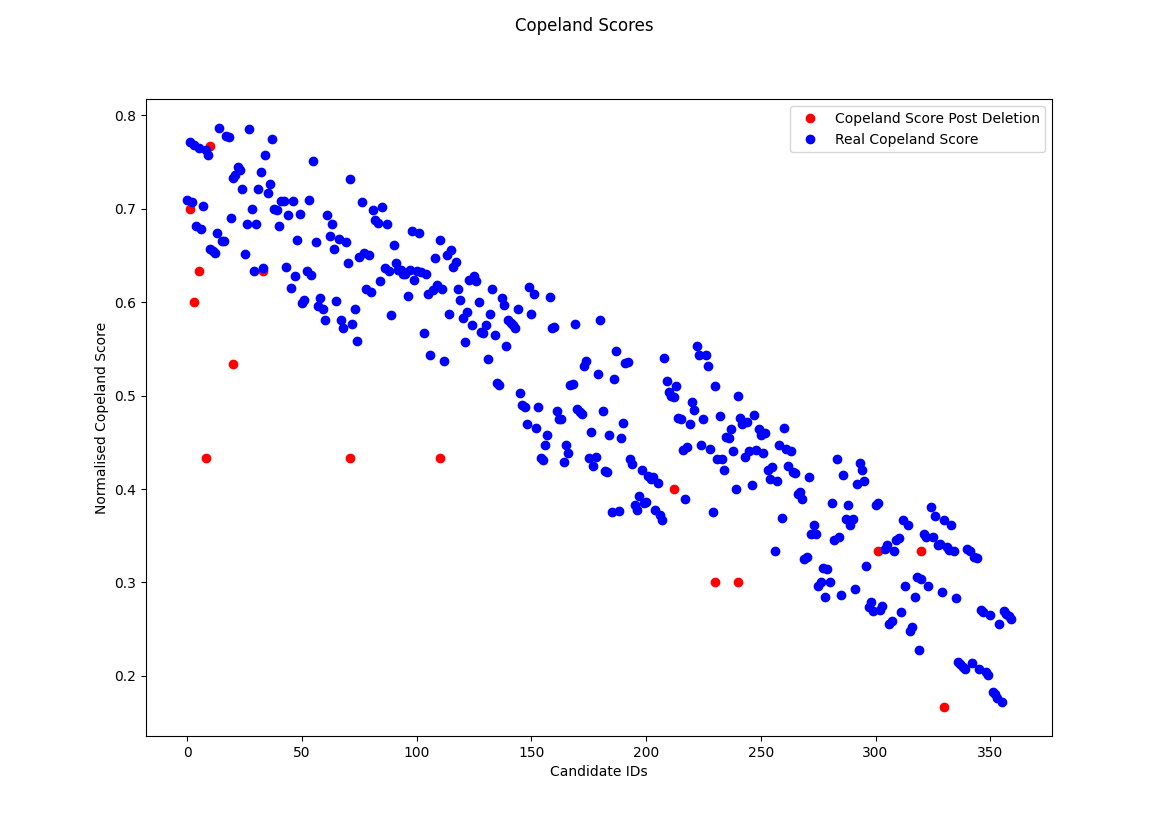
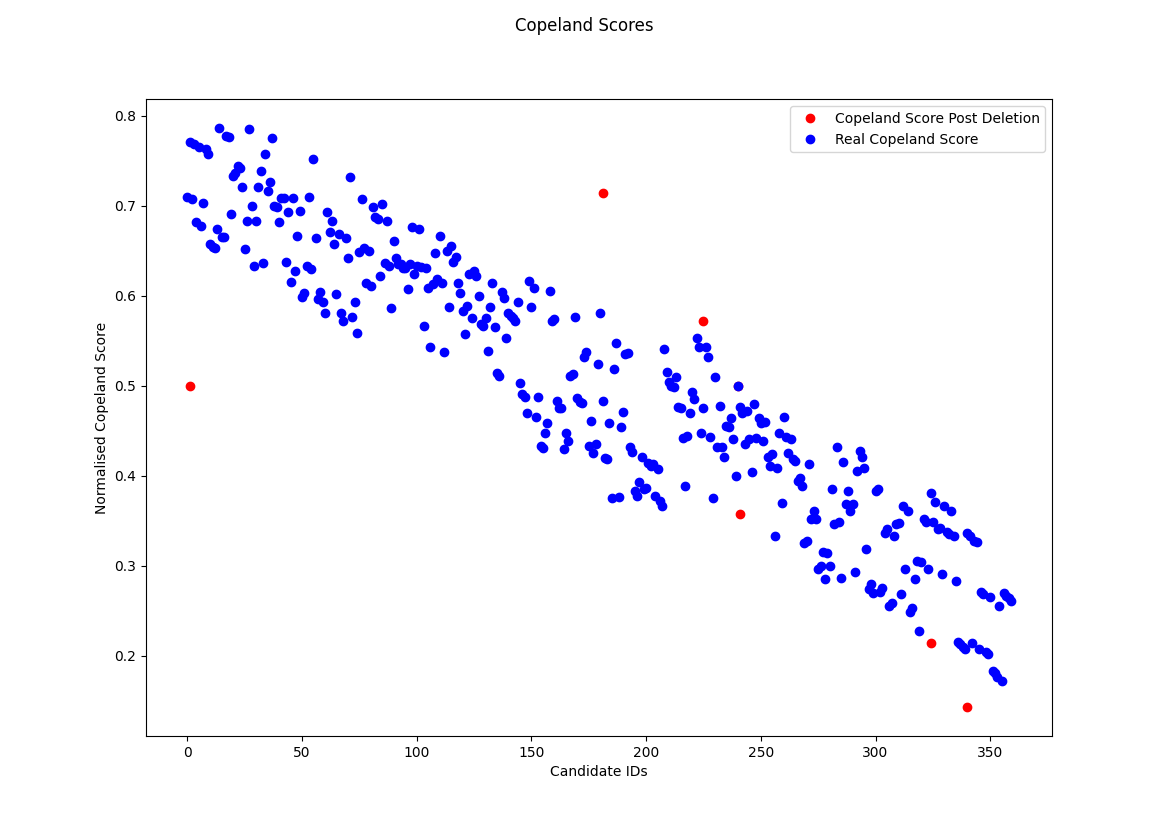
making edits to deletion copeland, might mess it up.

diff --git a/deletion_copeland.py b/deletion_copeland.py
@@ -1,3 +1,9 @@
+'''
+TODO:
+    - [ ] Create a wrapper for score_list and copeland_score. 
+    - [ ] Put deletion step as a function.
+'''
+
 import iterative_copeland as ic
 import pickle
 import numpy as np
@@ -9,8 +15,35 @@ from os.path import isfile, join
 
 import matplotlib.pyplot as plt
 
+def copelandWrapper(preference_profile_segment):
+    agents = len(preference_profile_segment[0]) - 1
+    candidates = len(preference_profile_segment)
+    # calculation of pairwise score and copeland score
+    score_list = ic.pairwiseScoreCalcListFull(
+        preference_profile_segment[:, 1:], candidates, agents)
+    copeland_score = ic.copelandScoreFull(score_list, candidates, agents)
 
-def deletionCopeland(preference_profile, step, deletion_ratio):
+    # Finding the weaklings
+    sorted_copeland_score = np.argsort(copeland_score)
+    no_of_deleted_candidates = len(
+        preference_profile_segment) - surviving_candidates
+    # Takes the highest x candidates
+    to_be_deleted = sorted_copeland_score[0:no_of_deleted_candidates]
+
+    preference_profile_segment = [i for x, i in enumerate(
+        preference_profile_segment) if x not in to_be_deleted]
+    copeland_score = [i for x, i in enumerate(
+        copeland_score) if x not in to_be_deleted]
+    assert len(preference_profile_segment) == len(copeland_score)
+    # # Recomputing copeland score
+    # score_list = ic.pairwiseScoreCalcListFull(
+    #     preference_profile_segment, len(preference_profile_segment), agents)
+    # copeland_score = ic.copelandScoreFull(
+    #     score_list, len(preference_profile_segment), agents)
+    return (preference_profile_segment, copeland_score)
+
+
+def deletionCopeland(preference_profile, step, surviving_candidates):
     # Processing the data.
     candidates = len(preference_profile)
     agents = len(preference_profile[0])
@@ -24,8 +57,8 @@ def deletionCopeland(preference_profile, step, deletion_ratio):
             score_list, len(i_preference_profile), agents)
 
         sorted_copeland_score = np.argsort(copeland_score)
-        no_of_deleted_candidates = int(
-            deletion_ratio*len(i_preference_profile))
+        no_of_deleted_candidates = len(
+            i_preference_profile) - surviving_candidates
 
         to_be_deleted = sorted_copeland_score[0:no_of_deleted_candidates]
         i_preference_profile = [i for j, i in enumerate(
@@ -36,47 +69,39 @@ def deletionCopeland(preference_profile, step, deletion_ratio):
         score_list, len(i_preference_profile), agents)
     return (i_preference_profile, copeland_score)
 
-def deletionCopelandFamily(preference_profile, step, deletion_ratio):
+def deletionCopelandFamily(preference_profile, step, surviving_candidates):
     # Processing the data.
     candidates = len(preference_profile)
-    agents = len(preference_profile[0])
+    # We add a column on the 0th index to keep track of candidate IDs.
+    agents = len(preference_profile[0]) - 1
     familyipp = []
     familycs = []
-    i_preference_profile = []
+    i_preference_profile = preference_profile[0:step]
     for i in range(0, candidates, step):
-        # step-size equivalent no of candidates added.
-        i_preference_profile.extend(preference_profile[i: i+step])
-        # calculation of pairwise score
-        score_list = ic.pairwiseScoreCalcListFull(
-            i_preference_profile, len(i_preference_profile), agents)
-        # calculation of copeland score
-        copeland_score = ic.copelandScoreFull(
-            score_list, len(i_preference_profile), agents)
-
-        sorted_copeland_score = np.argsort(copeland_score)
-        no_of_deleted_candidates = int(
-            deletion_ratio*len(i_preference_profile))
-
+        i_preference_profile, copeland_score = copelandWrapper(
+            i_preference_profile)
+        # Storing preference profile and associated copeland score
         familyipp.append(i_preference_profile)
         familycs.append(copeland_score)
-
-        to_be_deleted = sorted_copeland_score[0:no_of_deleted_candidates]
-        i_preference_profile = [i for j, i in enumerate(
-            i_preference_profile) if j not in to_be_deleted]
-    score_list = ic.pairwiseScoreCalcListFull(
-        i_preference_profile, len(i_preference_profile), agents)
-    copeland_score = ic.copelandScoreFull(
-        score_list, len(i_preference_profile), agents)
+        # step-size equivalent no of candidates added.
+        i_preference_profile = np.append(
+            i_preference_profile, preference_profile[i: i+step], axis=0)
+    i_preference_profile, copeland_score = copelandWrapper(
+        i_preference_profile)
     familyipp.append(i_preference_profile)
     familycs.append(copeland_score)
-    # print(len(familyipp[0]))
-    # print(len(familycs[0]))
-    assert len(familyipp[0]) == len(familycs[0])
+    assert len(familyipp) == len(familycs)
+    for i in range(len(familyipp)):
+        # print(len(familyipp[i]))
+        # print(len(familycs[i]))
+        # print("⭐")
+        assert len(familyipp[i]) == len(familycs[i])
     return (familyipp, familycs)
 
-def plot(directory, filename, step, deletion_ratio, show_plots_during_execution):
+
+def plot(directory, filename, step, surviving_candidates, show_plots_during_execution):
     # Reading pickled files and storing the data.
-    pickled_file = open(directory + "_profiles/"+ filename+".vt", "rb")
+    pickled_file = open(directory + "_profiles/" + filename+".vt", "rb")
     preference_profile = pickle.load(pickled_file)
     true_copeland_score = None
     # Processing the data.
@@ -86,30 +111,85 @@ def plot(directory, filename, step, deletion_ratio, show_plots_during_execution)
     score_list = ic.pairwiseScoreCalcListFull(
         preference_profile, candidates, agents)
     true_copeland_score = ic.copelandScoreFull(score_list, candidates, agents)
+    # Relative Copeland Score
     true_copeland_score = [i/candidates for i in true_copeland_score]
     pickled_file.close()
 
-    ipp, cs = deletionCopeland(preference_profile, step, deletion_ratio)
+    ipp, cs = deletionCopeland(
+        preference_profile, step, surviving_candidates)
     cs = [i/len(cs) for i in cs]
     not_deleted_candidate_ids = []
     for i, x in enumerate(preference_profile.tolist()):
         if x in np.array(ipp).tolist():
             not_deleted_candidate_ids.append(i)
+
     fig, (ax1) = plt.subplots(1)
     fig.suptitle('Copeland Scores')
-    fig.set_size_inches(11.69,8.27)
+    fig.set_size_inches(11.69, 8.27)
     ax1.plot(not_deleted_candidate_ids, cs, 'ro')
     ax1.plot(range(candidates), true_copeland_score, 'bo')
+    # encircled_true_copeland_scores = []
+    # ax1.plot(, true_copeland_score, 'ro')
     ax1.legend(['Copeland Score Post Deletion', 'Real Copeland Score'])
     ax1.set_xlabel('Candidate IDs')
     ax1.set_ylabel('Normalised Copeland Score')
     plt.savefig("plots/" + directory + "/png/" + filename)
     if show_plots_during_execution:
         plt.show()
-    
-def plot_gif(directory, filename, step, deletion_ratio):
+
+
+def plot_gif(directory, filename, step, surviving_candidates):
     # Reading pickled files and storing the data.
-    pickled_file = open(directory + "_profiles/"+ filename+".vt", "rb")
+    pickled_file = open(directory + "_profiles/" + filename+".vt", "rb")
+
+    true_copeland_score = None
+    preference_profile = pickle.load(pickled_file)
+    candidates = len(preference_profile)
+    agents = len(preference_profile[0])
+    # Augmenting preference profile with IDs.
+    preference_profile = np.insert(
+        preference_profile, 0, range(candidates), axis=1)
+
+    score_list = ic.pairwiseScoreCalcListFull(
+        preference_profile[:, 1:], candidates, agents)
+    true_copeland_score = ic.copelandScoreFull(score_list, candidates, agents)
+    true_copeland_score = [i/candidates for i in true_copeland_score]
+    pickled_file.close()
+
+    familyipp, familycs = deletionCopelandFamily(
+        preference_profile, step, surviving_candidates)
+    winners_index = np.argsort(true_copeland_score)[-5:].tolist()
+    winners_value = [true_copeland_score[x] for x in winners_index]
+    assert len(familyipp) == len(familycs)
+    for i in range(len(familycs)):
+        assert len(familyipp[i]) == len(familycs[i])
+    fig, ax1 = plt.subplots()
+    camera = Camera(fig)
+    for i in range(len(familyipp)):
+        not_deleted_candidate_id = np.stack(
+            familyipp[i], axis=0)[:, 0].tolist()
+        cs = familycs[i]
+        cs = [j/len(cs) for j in cs]
+        assert len(cs) == len(not_deleted_candidate_id)
+        fig.suptitle('Copeland Scores')
+        fig.set_size_inches(11.69, 8.27)
+        ax1.set_ylim(-0.1, 1.1)
+        ax1.plot(range(candidates), true_copeland_score, 'bo')
+        ax1.plot(winners_index, winners_value, 'm*')
+        ax1.legend(['Real Copeland Score', 'Copeland Score Post Deletion'])
+        ax1.set_xlabel('Candidate IDs')
+        ax1.set_ylabel('Normalised Copeland Score')
+        ax1.plot(not_deleted_candidate_id, cs, 'ro')
+        camera.snap()
+        # ax1.lines.pop(0)
+    animation = camera.animate(blit=False)
+    animation.save("plots/" + directory + "/gif/" +
+                   filename + '.gif', writer='imagemagick')
+
+
+def plot_copeland_winner(directory, filename, step, surviving_candidates, winner_id):
+    # Reading pickled files and storing the data.
+    pickled_file = open(directory + "_profiles/" + filename+".vt", "rb")
     preference_profile = pickle.load(pickled_file)
     true_copeland_score = None
     # Processing the data.
@@ -122,62 +202,57 @@ def plot_gif(directory, filename, step, deletion_ratio):
     true_copeland_score = [i/candidates for i in true_copeland_score]
     pickled_file.close()
 
-    familyipp, familycs = deletionCopelandFamily(preference_profile, step, deletion_ratio)
-    familyndci = []
+    familyipp, familycs = deletionCopelandFamily(
+        preference_profile, step, surviving_candidates)
+
+    assert len(familyipp) == len(familycs)
     for i in range(len(familycs)):
-        cs = familycs[i]
-        ipp = familyipp[i]
-        cs = [i/len(cs) for i in cs]
-        not_deleted_candidate_ids = []
-        for i, x in enumerate(preference_profile.tolist()):
-            if x in np.array(ipp).tolist():
-                not_deleted_candidate_ids.append(i)
-        familyndci.append(not_deleted_candidate_ids)
-    assert len(familyipp) == len(familycs) == len(familyndci)
-    for i in range(len(familycs)):
-        assert len(familyipp[i]) == len(familycs[i]) == len(familyndci[i])
+        assert len(familyipp[i]) == len(familycs[i])
+    winner_copeland_score = []
     fig, ax1 = plt.subplots()
-    camera = Camera(fig)
     for i in range(len(familyipp)):
         not_deleted_candidate_ids = familyndci[i]
         cs = familycs[i]
         cs = [j/len(cs) for j in cs]
         fig.suptitle('Copeland Scores')
-        fig.set_size_inches(11.69,8.27)
+        fig.set_size_inches(11.69, 8.27)
         ax1.plot(range(candidates), true_copeland_score, 'bo')
-        ax1.legend(['Real Copeland Score', 'Copeland Score Post Deletion'])
+        ax1.legend(['Real Copeland Score', 'Overall True Copeland Winners',
+                   'Copeland Score Post Deletion'])
         ax1.set_xlabel('Candidate IDs')
         ax1.set_ylabel('Normalised Copeland Score')
         ax1.plot(not_deleted_candidate_ids, cs, 'ro')
-        camera.snap()
         # ax1.lines.pop(0)
-    animation = camera.animate(blit=False)
-    animation.save("plots/" + directory + "/gif/" + filename + '.gif', writer = 'imagemagick')
+
 
 def change_frame_rate(benchmark):
-    directory = "./plots/" +  benchmark +"/gif/"
-    onlyfiles = [directory+ f for f in listdir(directory) if isfile(join(directory, f))]
+    directory = "./plots/" + benchmark + "/gif/"
+    onlyfiles = [directory +
+                 f for f in listdir(directory) if isfile(join(directory, f))]
     # print(onlyfiles)
     for file in onlyfiles:
-        gif = imageio.mimread(file, memtest=False)
+        gif = imageio.mimread(file)
         imageio.mimsave(file, gif, fps=1)
+
 
 if __name__ == "__main__":
     SHOW_PLOTS_DURING_EXECUTION = False
     PLOT_GIFS = True
-    profile_types = ["inverted", "normal", "random", "search_more"]
     benchmarks = ["project_assignment", "photo_placement"]
-    step = 10
-    deletion_ratio = 0.6
+    step = 20
+    surviving_candidates = 7
+    profile_types = ["inverted", "normal", "random", "search_more"]
     for benchmark in benchmarks:
         print("🟢 Running " + benchmark)
         for profile_type in profile_types:
-            for i in ['1','2','3','4', '5', '6']:
+            for i in ['1', '2', '3', '4', '5', '6']:  # , '1','2','3','4', '5', '6'
                 try:
-                    plot(benchmark, profile_type+str(i), step, deletion_ratio, SHOW_PLOTS_DURING_EXECUTION)
-                    plot_gif(benchmark, profile_type+str(i), step, deletion_ratio)
+                    plot(benchmark, profile_type+str(i), step,
+                         surviving_candidates, SHOW_PLOTS_DURING_EXECUTION)
+                    plot_gif(benchmark, profile_type+str(i),
+                             step, surviving_candidates)
                     print("    " + profile_type+str(i))
                 except Exception as e:
-                    # print(e)
+                    print(e)
                     None
         change_frame_rate(benchmark)
